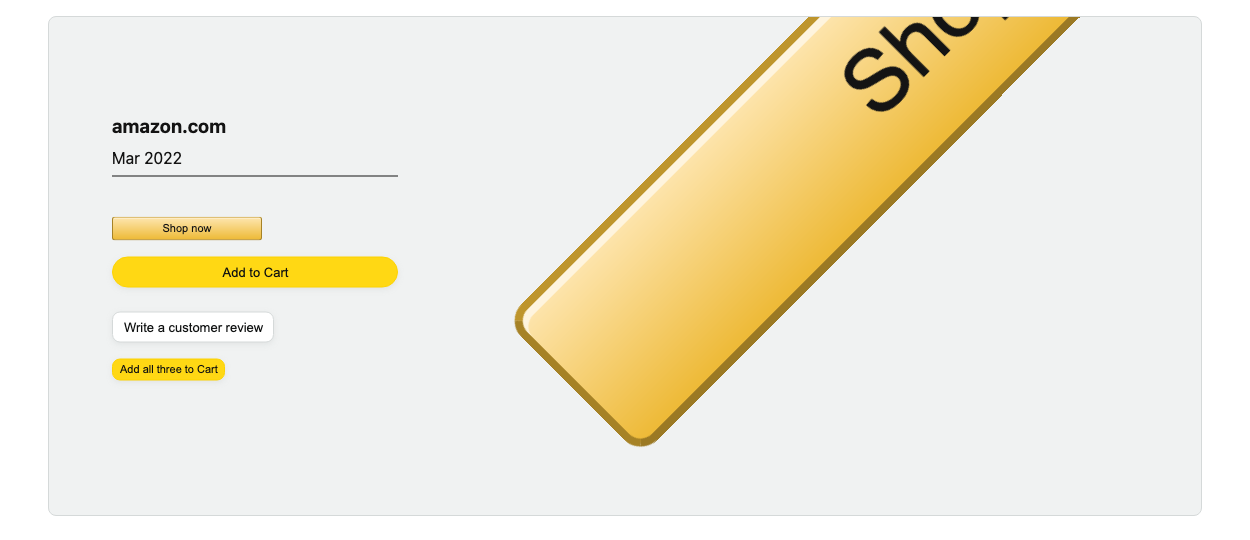
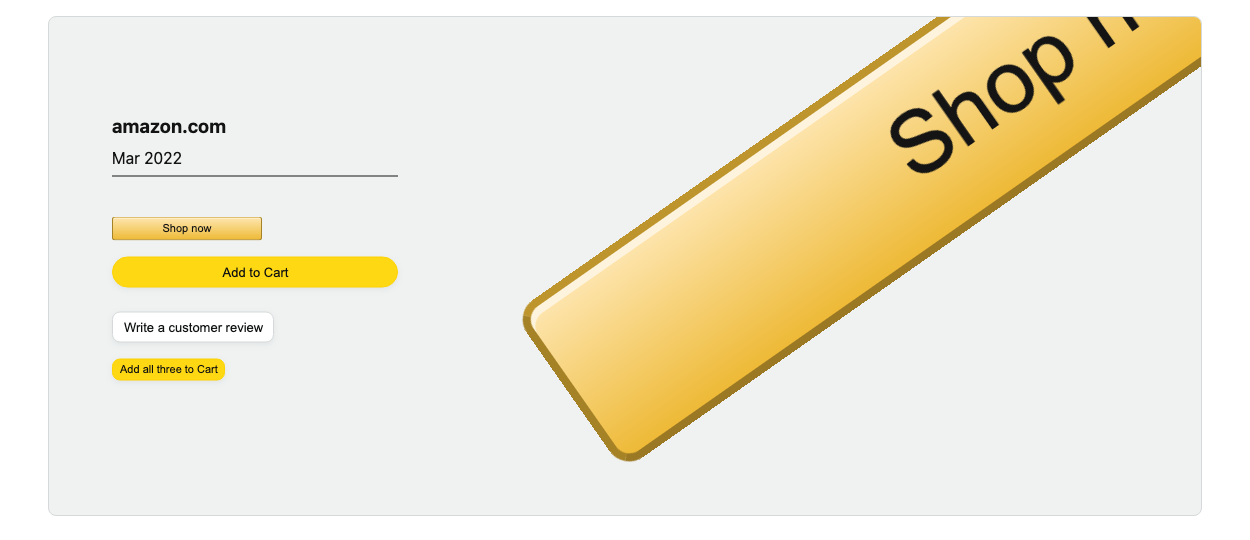
small style tweaks

Changed region(s): [[0.4056, 0.0296, 0.9672, 0.8593]]

diff --git a/src/routes/button/[id].svelte b/src/routes/button/[id].svelte
@@ -17,6 +17,8 @@
     if (interactiveTargetElt) interactiveTargetElt.scrollIntoView({ behavior: 'smooth' });
   };
 
+  $: website = new URL(meta.source).hostname;
+
   $: {
     if (data.buttons[selected].data.meta) {
       meta = data.buttons[selected].data.meta;
@@ -32,14 +34,14 @@
 </script>
 
 <svelte:head>
-  <title>button.land | {website}</title>
-  <meta name="title" content="button.land | {website}" />
-  <meta property="twitter:title" content="button.land | {website}" />
-  <meta property="og:title" content="button.land | {website}" />
+  <title>{website} in button.land</title>
+  <meta name="title" content="{website} in button.land" />
+  <meta property="twitter:title" content="{website} in button.land" />
+  <meta property="og:title" content="{website} in button.land " />
 
-  <meta name="description" content="Find {website} in button.land" />
-  <meta property="og:description" content="Fina {website} in button.land" />
-  <meta property="twitter:description" content="Find {website} in button.land" />
+  <meta name="description" content="Explore buttons from {website} in button.land" />
+  <meta property="og:description" content="Explore buttons from {website} in button.land" />
+  <meta property="twitter:description" content="Explore buttons from {website} in button.land" />
 
   <meta property="og:type" content="website" />
   <meta property="twitter:card" content="summary_large_image" />
@@ -54,7 +56,7 @@
 <div class="top">
   <ButtonScaled
     scale="8"
-    rotation="-45deg"
+    rotation="-35deg"
     offset="-200px"
     height="500px"
     properties={data.buttons[0].data.properties}
@@ -157,7 +159,7 @@
 
   code {
     padding: 0 20px;
-    background-color: #eeeeee;
+    background-color: #eeeeee08;
     display: block;
   }
 

diff --git a/src/routes/index.svelte b/src/routes/index.svelte
@@ -37,9 +37,9 @@
   <meta property="twitter:title" content="button.land" />
   <meta property="og:title" content="button.land" />
 
-  <meta name="description" content="Find many buttons in button.land" />
-  <meta property="og:description" content="Find many buttons in button.land" />
-  <meta property="twitter:description" content="Find many buttons in button.land" />
+  <meta name="description" content="Find buttons from around the web in button.land" />
+  <meta property="og:description" content="Find buttons from around the web in button.land" />
+  <meta property="twitter:description" content="Find buttons from around the web in button.land" />
 
   <meta property="og:type" content="website" />
   <meta property="twitter:card" content="summary_large_image" />

diff --git a/static/global.css b/static/global.css
@@ -5,6 +5,7 @@ body {
     'Apple Color Emoji', 'Segoe UI Emoji';
   color: var(--text-primary);
   background: var(--background);
+  transition: background 0.2s, color 0.2s;
 }
 
 * {
